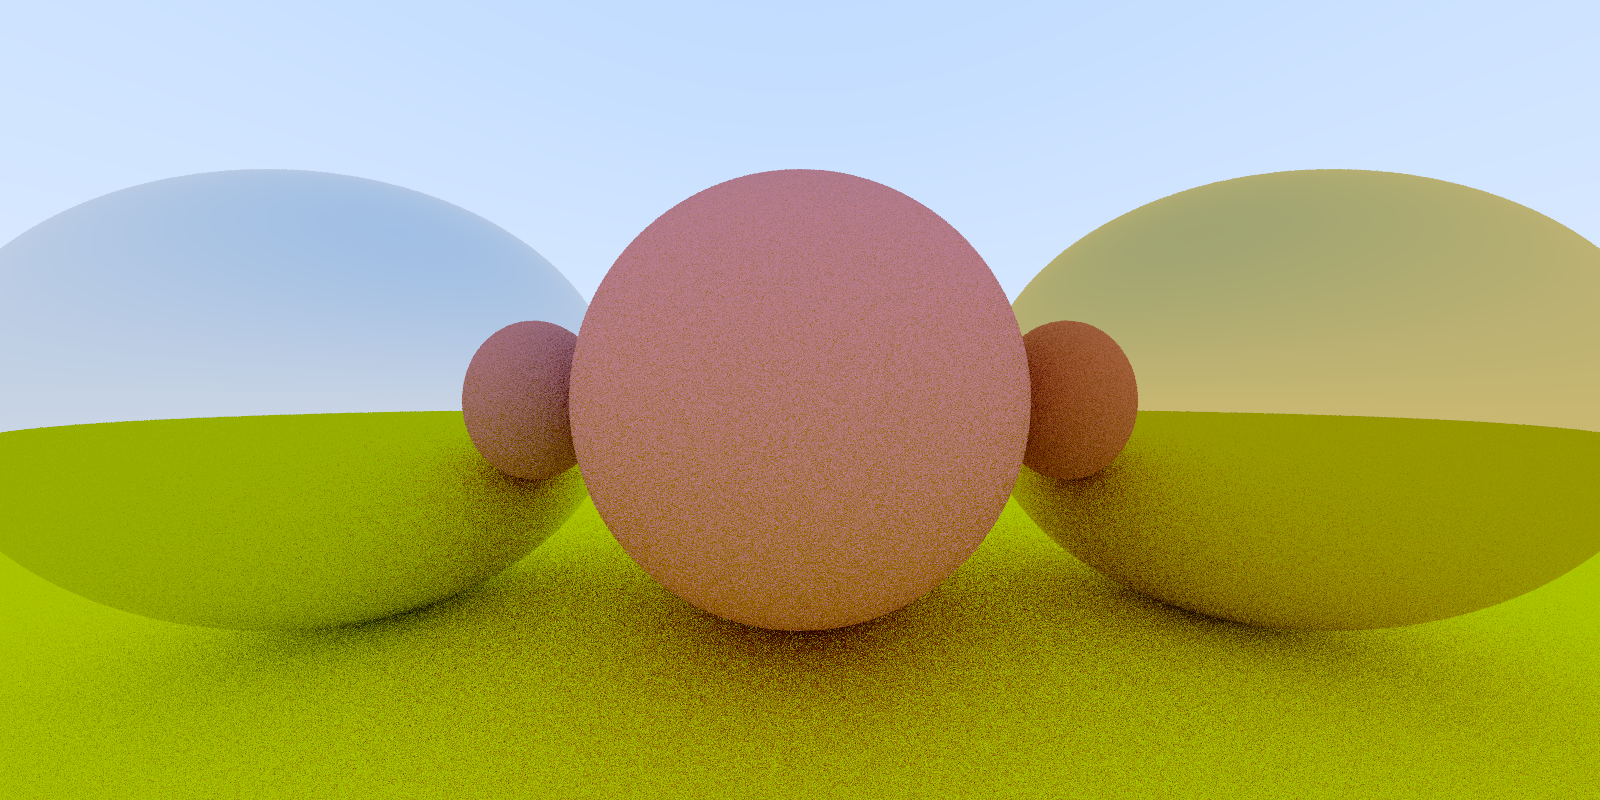
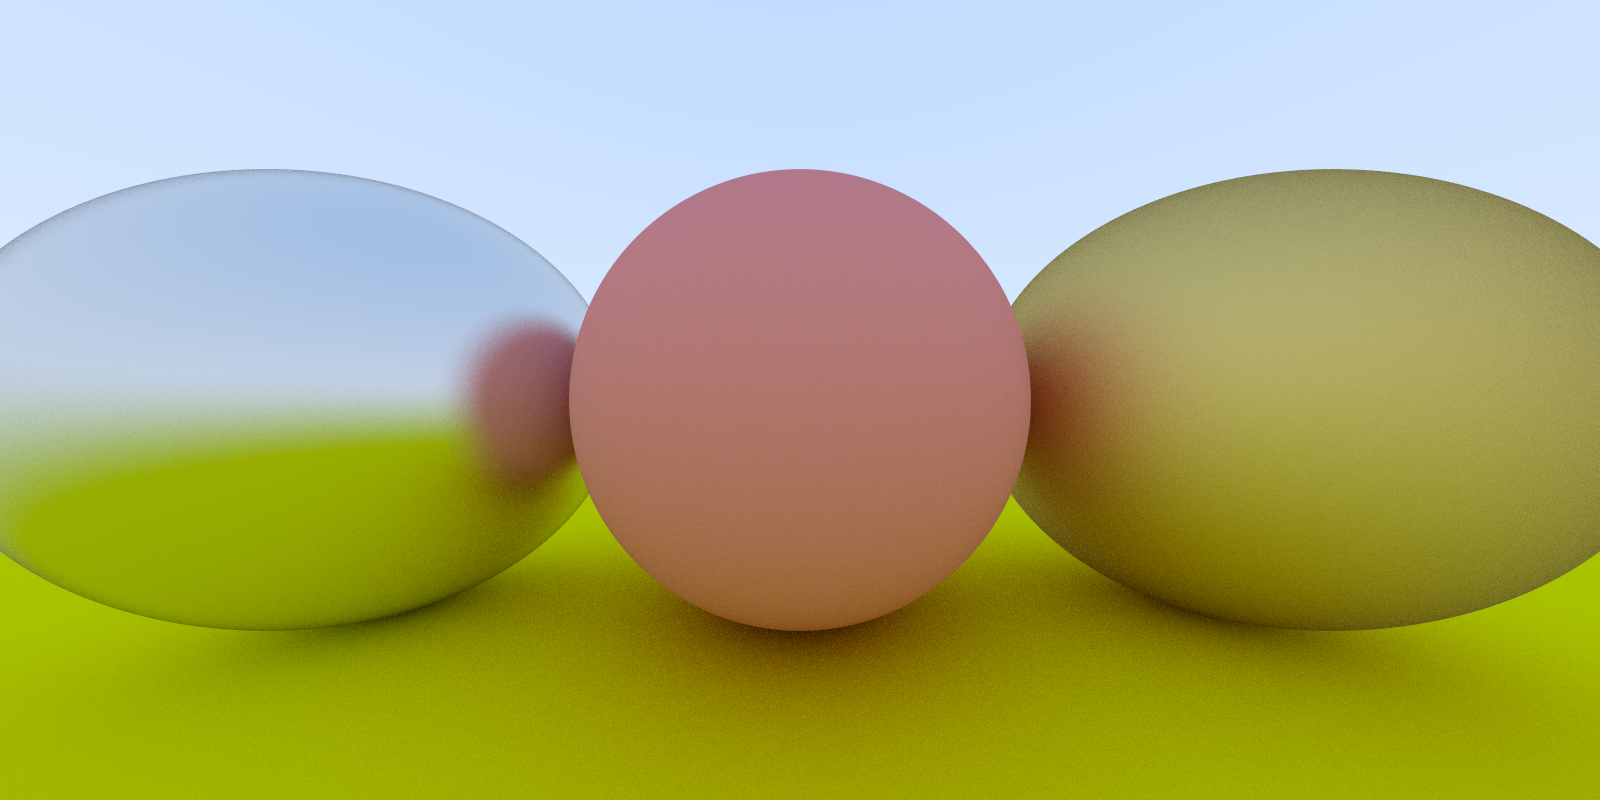
metal roughness

diff --git a/raytracer/raytracer.cpp b/raytracer/raytracer.cpp
@@ -37,8 +37,8 @@ void redraw(U8* outPtr, int width, int height) {
     hitable* list[4];
     list[0] = new sphere(vec3(0,0,-1), 0.5, new lambertian(vec3(0.8, 0.3, 0.3)));
     list[1] = new sphere(vec3(0, -100.5, -1), 100, new lambertian(vec3(0.8, 0.8, 0.0)));
-    list[2] = new sphere(vec3(1, 0, -1), 0.5, new metal(vec3(0.8, 0.6, 0.2)));
-    list[3] = new sphere(vec3(-1, 0, -1), 0.5, new metal(vec3(0.8, 0.8, 0.8)));
+    list[2] = new sphere(vec3(1, 0, -1), 0.5, new metal(vec3(0.8, 0.6, 0.2), 1.0));
+    list[3] = new sphere(vec3(-1, 0, -1), 0.5, new metal(vec3(0.8, 0.8, 0.8), 0.3));
     hitable* world = new hitable_list(list, 4);
     camera cam;
     

diff --git a/raytracer/materials/metal.cpp b/raytracer/materials/metal.cpp
@@ -1,9 +1,9 @@
 #include "metal.h"
-#include "glm/glm.hpp"
+#include "glm/gtc/random.hpp"
 
 bool metal::scatter(const ray& r_in, const hit_record& rec, vec3& attenuation, ray& scattered) const {
     vec3 reflected = reflect(normalize(r_in.direction()), rec.normal);
-    scattered = ray(rec.p, reflected);
+    scattered = ray(rec.p, reflected + ballRand(fuzz));
     attenuation = albedo;
     return (dot(scattered.direction(), rec.normal) > 0);
 }

diff --git a/raytracer/materials/metal.h b/raytracer/materials/metal.h
@@ -2,9 +2,10 @@
 #include "material.h"
 
 struct metal : public material {
-    metal(const vec3& a) : albedo(a) {}
+    metal(const vec3& a, float fuzz) : albedo(a), fuzz(clamp(fuzz, 0.0f, 1.0f)) {}
     
     virtual bool scatter(const ray& r_in, const hit_record& rec, vec3& attenuation, ray& scattered) const;
     
     vec3 albedo;
+    float fuzz;
 };
